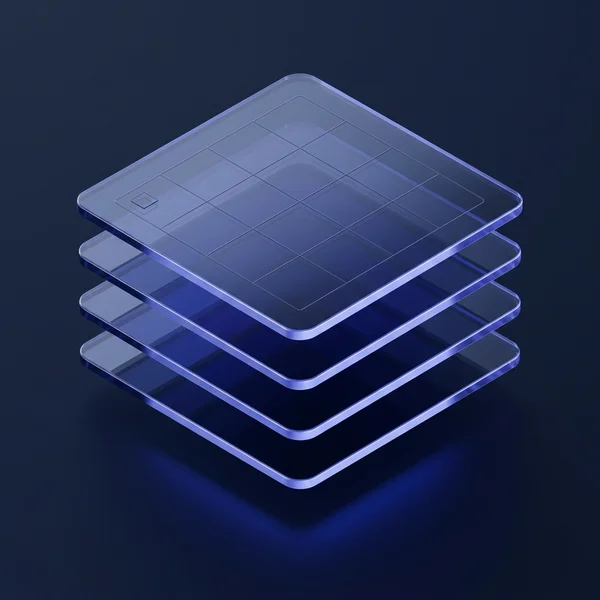
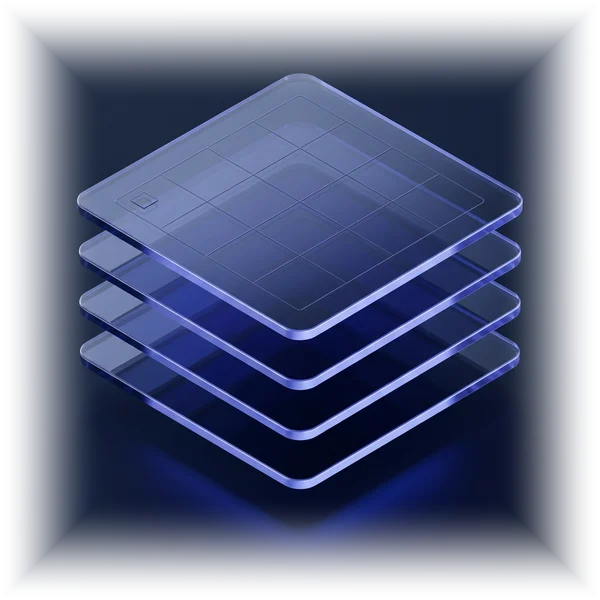
fix: recover device preferences after transient storage failures

diff --git a/lib/features/settings/data/local_preference_store.dart b/lib/features/settings/data/local_preference_store.dart
@@ -1,31 +1,34 @@
-import 'package:material_ui/material_ui.dart';
+import 'dart:convert';
+
 import 'package:shared_preferences/shared_preferences.dart';
 
 import '../application/workspace_preferences.dart';
 
-/// Preferences only. Never use this key-value store for business records.
+/// One versioned document for the small device preferences. A successful
+/// write saves both choices together. This is never the business database.
 final class LocalPreferenceStore implements PreferenceStore {
-  static const _language = 'strata.preferences.language.v1';
-  static const _appearance = 'strata.preferences.appearance.v1';
-
-  // Lazily initialize so a missing platform implementation can be handled by
-  // the same error boundary as a failed read or write.
+  static const _key = 'strata.preferences.v1';
   late final _store = SharedPreferencesAsync();
 
   @override
   Future<WorkspacePreferences> load() async {
-    final data = await _store.getAll(allowList: {_language, _appearance});
+    final raw = await _store.getString(_key);
+    if (raw == null) return const WorkspacePreferences();
+    final data = jsonDecode(raw);
+    if (data is! Map<String, dynamic>)
+      throw const FormatException('Invalid preferences');
     return WorkspacePreferences.decode(
-      data[_language] is String ? data[_language] as String : null,
-      data[_appearance] is String ? data[_appearance] as String : null,
+      data['locale'] is String ? data['locale'] as String : null,
+      data['theme'] is String ? data['theme'] as String : null,
     );
   }
 
   @override
-  Future<void> saveLocale(Locale locale) =>
-      _store.setString(_language, locale.languageCode);
-
-  @override
-  Future<void> saveTheme(ThemeMode theme) =>
-      _store.setString(_appearance, theme.name);
+  Future<void> save(WorkspacePreferences values) => _store.setString(
+    _key,
+    jsonEncode({
+      'locale': values.locale?.languageCode,
+      'theme': values.themeMode.name,
+    }),
+  );
 }

diff --git a/lib/features/settings/application/preferences_controller.dart b/lib/features/settings/application/preferences_controller.dart
@@ -37,31 +37,26 @@ class PreferencesController extends Notifier<PreferenceSnapshot> {
   @override
   PreferenceSnapshot build() => ref.watch(initialPreferencesProvider);
 
-  Future<void> setLocale(Locale locale) {
-    final store = ref.read(preferenceStoreProvider);
-    return _update(
-      state.values.withLocale(locale),
-      () => store.saveLocale(locale),
-    );
-  }
+  Future<void> setLocale(Locale locale) =>
+      _update(state.values.withLocale(locale));
 
-  Future<void> setTheme(ThemeMode theme) {
-    final store = ref.read(preferenceStoreProvider);
-    return _update(state.values.withTheme(theme), () => store.saveTheme(theme));
-  }
+  Future<void> setTheme(ThemeMode theme) =>
+      _update(state.values.withTheme(theme));
 
-  Future<void> _update(
-    WorkspacePreferences values,
-    Future<void> Function() persist,
-  ) {
-    // Apply immediately; serialize writes so quick successive choices restore
-    // in the same order after restart. Keep the session usable on failure.
+  Future<void> _update(WorkspacePreferences values) {
+    final store = ref.read(preferenceStoreProvider);
+    // Apply immediately; serialize whole snapshots so the last choice wins,
+    // even after a transient storage failure or rapid successive changes.
     state = (values: values, storageWarning: state.storageWarning);
     _writes = _writes.then((_) async {
+      var failed = false;
       try {
-        await persist();
+        await store.save(values);
       } catch (_) {
-        if (ref.mounted) state = (values: state.values, storageWarning: true);
+        failed = true;
+      }
+      if (ref.mounted && state.storageWarning != failed) {
+        state = (values: state.values, storageWarning: failed);
       }
     });
     return _writes;

diff --git a/lib/features/dashboard/presentation/revenue_summary.dart b/lib/features/dashboard/presentation/revenue_summary.dart
@@ -30,18 +30,10 @@ class RevenueSummary extends StatelessWidget {
                 child: FractionallySizedBox(
                   widthFactor: .48,
                   heightFactor: .97,
-                  child: ShaderMask(
-                    blendMode: BlendMode.dstIn,
-                    shaderCallback: (rect) => const RadialGradient(
-                      radius: .75,
-                      colors: [Colors.white, Colors.white, Colors.transparent],
-                      stops: [0, .6, 1],
-                    ).createShader(rect),
-                    child: Image.asset(
-                      'assets/art/ledger-study.webp',
-                      fit: BoxFit.contain,
-                      excludeFromSemantics: true,
-                    ),
+                  child: Image.asset(
+                    'assets/art/ledger-study.webp',
+                    fit: BoxFit.contain,
+                    excludeFromSemantics: true,
                   ),
                 ),
               ),

diff --git a/test/browser_preferences_test.dart b/test/browser_preferences_test.dart
@@ -3,6 +3,7 @@ library;
 
 import 'package:flutter_test/flutter_test.dart';
 import 'package:material_ui/material_ui.dart';
+import 'package:strata/features/settings/application/workspace_preferences.dart';
 import 'package:strata/features/settings/data/local_preference_store.dart';
 
 void main() {
@@ -11,8 +12,12 @@ void main() {
     () async {
       // The test runner owns its isolated browser origin; no business storage.
       final store = LocalPreferenceStore();
-      await store.saveLocale(const Locale('ar'));
-      await store.saveTheme(ThemeMode.dark);
+      await store.save(
+        const WorkspacePreferences(
+          locale: Locale('ar'),
+          themeMode: ThemeMode.dark,
+        ),
+      );
       final restored = await LocalPreferenceStore().load();
       expect(restored.locale, const Locale('ar'));
       expect(restored.themeMode, ThemeMode.dark);

diff --git a/test/catalog_test.dart b/test/catalog_test.dart
@@ -1,0 +1,27 @@
+@TestOn('vm')
+library;
+
+import 'dart:convert';
+import 'dart:io';
+
+import 'package:flutter_test/flutter_test.dart';
+
+void main() {
+  test('English and Arabic catalogs contain the same nonempty messages', () {
+    Map<String, dynamic> catalog(String locale) {
+      final file = File('lib/app/localization/app_$locale.arb');
+      return (jsonDecode(file.readAsStringSync()) as Map<String, dynamic>)
+        ..removeWhere((key, _) => key.startsWith('@'));
+    }
+
+    final en = catalog('en');
+    final ar = catalog('ar');
+    expect(ar.keys.toSet(), en.keys.toSet());
+    for (final message in [...en.values, ...ar.values]) {
+      expect(
+        message,
+        isA<String>().having((s) => s.trim().isNotEmpty, 'has text', true),
+      );
+    }
+  });
+}

diff --git a/test/support/app_harness.dart b/test/support/app_harness.dart
@@ -18,15 +18,9 @@ class MemoryPreferenceStore implements PreferenceStore {
   }
 
   @override
-  Future<void> saveLocale(Locale locale) async {
+  Future<void> save(WorkspacePreferences values) async {
     if (rejectWrites) throw StateError('write failed');
-    saved = saved.withLocale(locale);
-  }
-
-  @override
-  Future<void> saveTheme(ThemeMode theme) async {
-    if (rejectWrites) throw StateError('write failed');
-    saved = saved.withTheme(theme);
+    saved = values;
   }
 }
 

diff --git a/test/app_test.dart b/test/app_test.dart
@@ -96,6 +96,10 @@ void main() {
       expect(find.textContaining('تعذّر الوصول'), findsOneWidget);
       expect(find.text('لغة العرض'), findsOneWidget);
       expect(store.saved.locale, isNull);
+      store.rejectWrites = false;
+      await tapKey(tester, 'theme-light');
+      expect(find.textContaining('تعذّر الوصول'), findsNothing);
+      expect(store.saved.locale, const Locale('ar'));
       expect(tester.takeException(), isNull);
     },
   );

diff --git a/lib/shared/presentation/page_layout.dart b/lib/shared/presentation/page_layout.dart
@@ -52,7 +52,6 @@ class WorkspacePage extends StatelessWidget {
         ],
       );
       return SingleChildScrollView(
-        key: PageStorageKey(title),
         padding: EdgeInsets.symmetric(
           horizontal: compact ? 18 : 30,
           vertical: compact ? 21 : 27,

diff --git a/lib/features/settings/application/workspace_preferences.dart b/lib/features/settings/application/workspace_preferences.dart
@@ -32,6 +32,5 @@ final class WorkspacePreferences {
 
 abstract interface class PreferenceStore {
   Future<WorkspacePreferences> load();
-  Future<void> saveLocale(Locale locale);
-  Future<void> saveTheme(ThemeMode theme);
+  Future<void> save(WorkspacePreferences values);
 }
